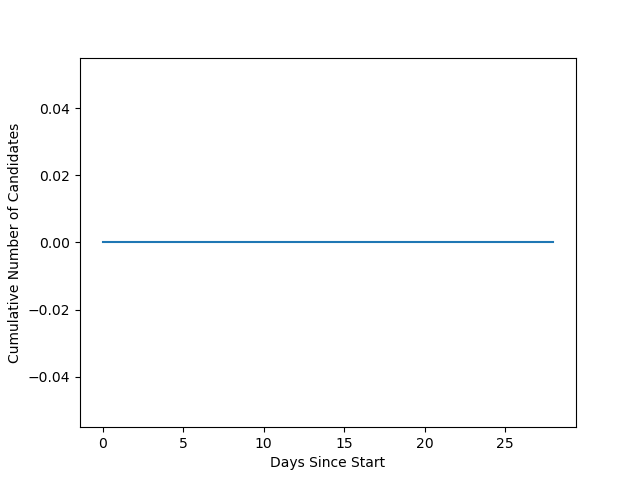
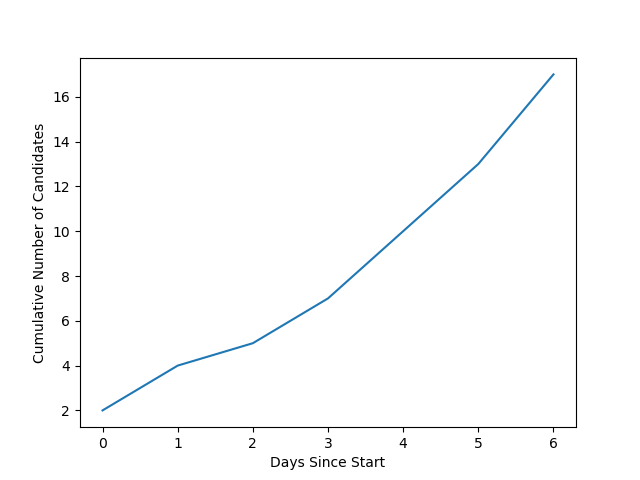
df conversion
haven't fixed the last function yet, but did get it so the first two plotters are using the df

diff --git a/stats.py b/stats.py
@@ -129,14 +129,21 @@ def get_json(file=None, params=None): ## effectively an improvement on get_sampl
             with open(file,'r') as f:
                 data = json.load(f)
                 jsonDict = {param: data[param] for param in jsonList}
+                
         except: ## in event that json file isn't read correctly
             print('error reading json file: %s'%file)
+            print()
             jsonDict = {param: np.nan for param in jsonList}
         finally:
             f.close()
+            print('jsonDict: %s'%jsonDict) if args.verbose else None
+            print() if args.verbose else None
             return jsonDict
     elif not file: ## for use case where no json is found when the pandas dataframe is created
         jsonDict = {param: np.nan for param in jsonList} ## np.nan is used to make it easier to plot later without having to deal with NoneType
+        print('no json file found at: %s'%file)
+        print('jsonDict: %s'%jsonDict) if args.verbose else None
+        print() if args.verbose else None
         return jsonDict
     else: ## case where file argument is not provided
         print('provide a file to search!')
@@ -243,10 +250,11 @@ def get_dataframe(candDir=args.candDir, fitDir=args.fitDir, models=args.models, 
                         df.at[idx, key] = value ## should be np.nan
                 idx += 1
                 print( ) if args.verbose else None
-    
+    df.sort_values(by=['day','cand','model'], inplace=True)
     df.to_csv(plotDir(name='statsDataframe',ext='.csv')) if save else None
     ## Not exactly the intended use of plotDir, but it works (probably)
     print('completed dataframe creation') if args.verbose else None
+    print(df) if args.verbose else None
     return df ## generally, most items returned in df will be strings, with a small number of bools and np.nan values
 
 
@@ -255,34 +263,62 @@ def get_dataframe(candDir=args.candDir, fitDir=args.fitDir, models=args.models, 
 ## Functions to plot daily candidate stats
 ## these functions could probably be combined for ease of calling, perhaps with argument to determine which plot(s) to make
 
-def plotDailyCand(save=True): ## needs to be modified to accept dataframe instead
+def plotDailyCand(df, save=True): ## needs to be modified to accept dataframe instead
     '''
     plot the number of candidates per day as both a line plot and histogram
     
     Args:
+    df: dataframe with candidate data from get_dataframe function
     save: boolean to determine whether to save the plot or not
     '''
-    plt.plot(dayCount, numDaily,marker='o')
+
+    ## get count of days
+    dayList = df['day'].unique()
+    #print('dayList: %s'%dayList) if args.verbose else None
+    dayCount = [day for day in range(len(dayList))]
+
+    ## get number of candidates per day
+
+    numDaily = [len(df[df['day'] == day]['candPath'].unique()) for day in dayList]
+    print('numDaily: %s'%numDaily) if args.verbose else None
+    print() if args.verbose else None
+
+    plt.plot(dayCount, numDaily,marker='.')
     plt.xlabel("Days Since Start") ## weird phrasing
     plt.ylabel('Number of Daily Candidates')
     plt.savefig(plotDir("numDailyCand")) if save else plt.clf()
     plt.clf()
     ## plot histogram of number of candidates per day
-    plt.hist(numDaily, bins=20) ## could fine tune the number of bins
+    plt.hist(numDaily) ## could fine tune the number of bins
     plt.xlabel("Number of Candidates per Day")
     plt.ylabel('Count')
     plt.savefig(plotDir("numDailyCandHist")) if save else None
     plt.clf()
 
 
-def plotCumDailyCand(save=True): ## needs to be modified to accept dataframe instead
+def plotCumDailyCand(df, save=True): ## needs to be modified to accept dataframe instead
     ## could switch to seaborn to make smoother/prettier curve
     '''
     Plot the cumulative number of candidates per day
     
     Args:
+    df: dataframe with candidate data from get_dataframe function
     save: boolean to determine whether to save the plot or not
     '''
+
+    ## get count of days
+    dayList = df['day'].unique()
+    print('dayList: %s'%dayList) if args.verbose else None
+    dayCount = [day for day in range(len(dayList))]
+
+    ## get number of candidates per day
+
+    numDaily = [len(df[df['day'] == day]['candPath'].unique()) for day in dayList]
+    
+    cumDaily = np.cumsum(numDaily)
+    print('cumDaily: %s'%cumDaily) if args.verbose else None
+    print() if args.verbose else None
+
     plt.plot(dayCount,cumDaily)
     plt.xlabel("Days Since Start")
     plt.ylabel('Cumulative Number of Candidates')
@@ -511,18 +547,28 @@ def plotSamplingTime(df, models=args.models, save=True):
     ## get the fit time data
     dayList = np.array(df['day'].unique().tolist()) ## oh, may need to switch to dayCount when plotting later
     dayCount = np.arange(len(dayList)) ## might be better to switch to start day count or something
+    # [[print('\n %s sampling times for %s : %s \n'%(model, day ,df[(df['day'] == day ) & ( df['model'] == model)]['sampling_time'])) for day in dayList] for model in models] if args.verbose else None
+    # print() if args.verbose else None
+
     fitTime = {model: 
-    np.array([float(df[(df['model' == model]) & (df['day'] == day) & (df['fitBool'] == True)]['sampling_time']) 
-    for day in dayList]) 
+    [df[(df['fitBool'] == False) & (df['model'] == model) & (df['day'] == day)]['sampling_time'].astype('float')
+    for day in dayList] 
     for model in models}
-    fitTime['Total'] = np.array([float(df[(df['day'] == day) & (df['fitBool'] == True)]['sampling_time']) for day in dayList])
+    fitTime['Total'] = [df[(df['fitBool'] == True) & (df['day'] == day)]['sampling_time'].astype('float') for day in dayList]
+    print() if args.verbose else None
+    # [print('fitTime %s'%fitTime[model]) for model in models] if args.verbose else None
+    print(fitTime)
+    print() if args.verbose else None
 
     ## data plotting
 
     ## plot histogram of fit time data
     for key, value in fitTime.items(): ## this has issue of the value being an array of arrays (e.g each day will have an array of fit times). Wasn't an issue in plotUnfit() because each day had a single value 
         ## I suppose I could just flatten it?
-        plt.hist(value.flatten(), label=key)  if key != 'Total' else None 
+        # print()
+        # print(value.flatten())
+
+        plt.hist(np.isfinite(value.flatten()), label=key)  if key != 'Total' else None 
         ## could fine tune the number of bins
     plt.xlabel("Sampling Times (s)")
     plt.ylabel('Count')
@@ -597,31 +643,31 @@ def plotSamplingTime(df, models=args.models, save=True):
 
 ## testing stats functions
 
-df = get_dataframe(candDir=args.candDir, models=args.models, save=False)
-print(df) if args.verbose else None
+df = get_dataframe(candDir=args.candDir, models=args.models, save=True)
 
-plotDailyCand()
+
+plotDailyCand(df=df,save=True)
 print('completed daily candidate plot (1)') if args.verbose else None
 print() if args.verbose else None
-plotCumDailyCand()
+plotCumDailyCand(df=df)
 print('completed cumulative daily candidate plot (2)') if args.verbose else None
 print() if args.verbose else None
 
-plotDailyCandRolling()
-print('completed daily candidate rolling average plot (3)') if args.verbose else None
-print() if args.verbose else None
+# plotDailyCandRolling()
+# print('completed daily candidate rolling average plot (3)') if args.verbose else None
+# print() if args.verbose else None
 
-plotFitCum(df=df)
-print('completed cumulative fit plot (4)') if args.verbose else None
-print() if args.verbose else None
+# plotFitCum(df=df)
+# print('completed cumulative fit plot (4)') if args.verbose else None
+# print() if args.verbose else None
 
-plotUnfit(df=df)
-print('completed unfit candidate plot (5)') if args.verbose else None
-print() if args.verbose else None
+# plotUnfit(df=df)
+# print('completed unfit candidate plot (5)') if args.verbose else None
+# print() if args.verbose else None
 
-plotSamplingTime(df=df)
-print('completed sampling time plot (6)') if args.verbose else None
-print() if args.verbose else None
+# plotSamplingTime(df=df)
+# print('completed sampling time plot (6)') if args.verbose else None
+# print() if args.verbose else None
 
 
 
